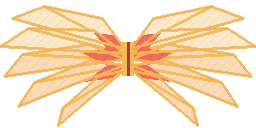
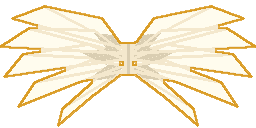
Make Kita angel wings read as feathered wings

diff --git a/src/client/java/com/go4no/ryoblocks/client/KitaAngelWingsFeatureRenderer.java b/src/client/java/com/go4no/ryoblocks/client/KitaAngelWingsFeatureRenderer.java
@@ -1,12 +1,6 @@
 package com.go4no.ryoblocks.client;
 
 import com.go4no.ryoblocks.KitaAngelBossAssets;
-import net.minecraft.client.model.ModelData;
-import net.minecraft.client.model.ModelPart;
-import net.minecraft.client.model.ModelPartBuilder;
-import net.minecraft.client.model.ModelPartData;
-import net.minecraft.client.model.ModelTransform;
-import net.minecraft.client.model.TexturedModelData;
 import net.minecraft.client.render.OverlayTexture;
 import net.minecraft.client.render.RenderLayer;
 import net.minecraft.client.render.VertexConsumer;
@@ -15,95 +9,18 @@ import net.minecraft.client.render.entity.feature.FeatureRenderer;
 import net.minecraft.client.render.entity.feature.FeatureRendererContext;
 import net.minecraft.client.util.math.MatrixStack;
 import net.minecraft.entity.boss.WitherEntity;
-import net.minecraft.util.math.MathHelper;
+import org.joml.Matrix3f;
+import org.joml.Matrix4f;
 
 public final class KitaAngelWingsFeatureRenderer<T extends WitherEntity> extends FeatureRenderer<T, KitaAngelBossModel<T>> {
-    private final ModelPart leftWing;
-    private final ModelPart rightWing;
+    private static final float WING_HALF_WIDTH = 23.5F;
+    private static final float WING_TOP = -10.2F;
+    private static final float WING_BOTTOM = 15.0F;
+    private static final float WING_ROOT_Z = 3.1F;
+    private static final float WING_TIP_Z = 8.8F;
 
     public KitaAngelWingsFeatureRenderer(FeatureRendererContext<T, KitaAngelBossModel<T>> context) {
         super(context);
-        ModelPart root = getTexturedModelData().createModel();
-        this.leftWing = root.getChild("left_wing");
-        this.rightWing = root.getChild("right_wing");
-    }
-
-    public static TexturedModelData getTexturedModelData() {
-        ModelData modelData = new ModelData();
-        ModelPartData root = modelData.getRoot();
-
-        ModelPartData leftWing = root.addChild(
-            "left_wing",
-            ModelPartBuilder.create(),
-            ModelTransform.of(3.9F, 1.0F, 3.25F, 0.02F, -0.38F, -0.16F)
-        );
-        addWingFeathers(leftWing, false);
-
-        ModelPartData rightWing = root.addChild(
-            "right_wing",
-            ModelPartBuilder.create(),
-            ModelTransform.of(-3.9F, 1.0F, 3.25F, 0.02F, 0.38F, 0.16F)
-        );
-        addWingFeathers(rightWing, true);
-
-        return TexturedModelData.of(modelData, 64, 64);
-    }
-
-    private static void addWingFeathers(ModelPartData wingRoot, boolean rightSide) {
-        float sign = rightSide ? -1.0F : 1.0F;
-        wingRoot.addChild(
-            "shoulder_coverts",
-            ModelPartBuilder.create()
-                .uv(0, 0).cuboid(rightSide ? -5.2F : 0.0F, -2.6F, -1.35F, 5.2F, 5.8F, 2.6F)
-                .uv(16, 0).cuboid(rightSide ? -4.0F : 0.0F, -3.4F, -0.95F, 4.0F, 4.0F, 1.8F),
-            ModelTransform.of(0.0F, 0.0F, 0.0F, -0.08F, 0.0F, sign * -0.04F)
-        );
-        wingRoot.addChild(
-            "upper_spar",
-            ModelPartBuilder.create()
-                .uv(0, 8).cuboid(rightSide ? -15.5F : 0.0F, -1.2F, -0.75F, 15.5F, 2.4F, 1.5F),
-            ModelTransform.of(sign * 1.8F, -2.4F, 0.0F, 0.0F, sign * -0.05F, sign * -0.28F)
-        );
-
-        for (int index = 0; index < 7; index++) {
-            float x = sign * (3.0F + index * 2.0F);
-            float y = -0.7F + index * 0.8F;
-            float length = 8.8F + index * 1.15F;
-            float width = 2.35F - index * 0.06F;
-            float roll = sign * (0.28F + index * 0.075F);
-            String name = "primary_" + index;
-            wingRoot.addChild(
-                name,
-                ModelPartBuilder.create()
-                    .uv(0, 16 + (index % 3) * 8)
-                    .cuboid(rightSide ? -length : 0.0F, 0.0F, -0.55F, length, width, 1.1F),
-                ModelTransform.of(x, y, 0.22F + index * 0.05F, 0.0F, sign * -0.14F, roll)
-            );
-        }
-
-        for (int index = 0; index < 5; index++) {
-            float x = sign * (2.4F + index * 1.65F);
-            float y = -4.2F + index * 0.58F;
-            float length = 7.0F + index * 0.9F;
-            wingRoot.addChild(
-                "upper_feather_" + index,
-                ModelPartBuilder.create()
-                    .uv(24, 16 + (index % 2) * 8)
-                    .cuboid(rightSide ? -length : 0.0F, 0.0F, -0.5F, length, 1.55F, 1.0F),
-                ModelTransform.of(x, y, 0.2F, 0.0F, sign * -0.12F, sign * (-0.36F - index * 0.07F))
-            );
-        }
-
-        for (int index = 0; index < 3; index++) {
-            float length = 6.2F + index * 1.2F;
-            wingRoot.addChild(
-                "inner_covert_" + index,
-                ModelPartBuilder.create()
-                    .uv(36, 32 + index * 6)
-                    .cuboid(rightSide ? -length : 0.0F, 0.0F, -0.6F, length, 2.1F, 1.2F),
-                ModelTransform.of(sign * (2.2F + index * 1.35F), 1.0F + index * 0.72F, -0.15F, 0.0F, sign * -0.08F, sign * (0.04F + index * 0.09F))
-            );
-        }
     }
 
     @Override
@@ -120,12 +37,62 @@ public final class KitaAngelWingsFeatureRenderer<T extends WitherEntity> extends
         float headPitch
     ) {
         VertexConsumer vertices = vertexConsumers.getBuffer(RenderLayer.getEntityTranslucent(KitaAngelBossAssets.WINGS_TEXTURE));
-        float flap = MathHelper.sin(animationProgress * 0.12F) * 0.08F;
-        this.leftWing.yaw = -0.38F - flap;
-        this.leftWing.roll = -0.16F - flap * 0.45F;
-        this.rightWing.yaw = 0.38F + flap;
-        this.rightWing.roll = 0.16F + flap * 0.45F;
-        this.leftWing.render(matrices, vertices, light, OverlayTexture.DEFAULT_UV);
-        this.rightWing.render(matrices, vertices, light, OverlayTexture.DEFAULT_UV);
+        matrices.push();
+        matrices.scale(1.0F / 16.0F, 1.0F / 16.0F, 1.0F / 16.0F);
+        MatrixStack.Entry entry = matrices.peek();
+        Matrix4f position = entry.getPositionMatrix();
+        Matrix3f normal = entry.getNormalMatrix();
+
+        float flap = (float)Math.sin(animationProgress * 0.12F) * 1.1F;
+        float yTop = WING_TOP + flap * 0.18F;
+        float yBottom = WING_BOTTOM - flap * 0.1F;
+        drawWingHalf(vertices, position, normal, -WING_HALF_WIDTH, 0.0F, yTop, yBottom, 0.0F, 0.5F, light);
+        drawWingHalf(vertices, position, normal, 0.0F, WING_HALF_WIDTH, yTop, yBottom, 0.5F, 1.0F, light);
+        matrices.pop();
+    }
+
+    private static void drawWingHalf(
+        VertexConsumer vertices,
+        Matrix4f position,
+        Matrix3f normal,
+        float left,
+        float right,
+        float top,
+        float bottom,
+        float uLeft,
+        float uRight,
+        int light
+    ) {
+        float leftZ = left < 0.0F ? WING_TIP_Z : WING_ROOT_Z;
+        float rightZ = right > 0.0F ? WING_TIP_Z : WING_ROOT_Z;
+        vertex(vertices, position, normal, left, bottom, leftZ, uLeft, 1.0F, light);
+        vertex(vertices, position, normal, right, bottom, rightZ, uRight, 1.0F, light);
+        vertex(vertices, position, normal, right, top, rightZ, uRight, 0.0F, light);
+        vertex(vertices, position, normal, left, top, leftZ, uLeft, 0.0F, light);
+
+        vertex(vertices, position, normal, left, top, leftZ + 0.02F, uLeft, 0.0F, light);
+        vertex(vertices, position, normal, right, top, rightZ + 0.02F, uRight, 0.0F, light);
+        vertex(vertices, position, normal, right, bottom, rightZ + 0.02F, uRight, 1.0F, light);
+        vertex(vertices, position, normal, left, bottom, leftZ + 0.02F, uLeft, 1.0F, light);
+    }
+
+    private static void vertex(
+        VertexConsumer vertices,
+        Matrix4f position,
+        Matrix3f normal,
+        float x,
+        float y,
+        float z,
+        float u,
+        float v,
+        int light
+    ) {
+        vertices.vertex(position, x, y, z)
+            .color(255, 255, 255, 255)
+            .texture(u, v)
+            .overlay(OverlayTexture.DEFAULT_UV)
+            .light(light)
+            .normal(normal, 0.0F, 0.0F, -1.0F)
+            .next();
     }
 }

diff --git a/src/client/java/com/go4no/ryoblocks/client/KitaAngelBossVisualProof.java b/src/client/java/com/go4no/ryoblocks/client/KitaAngelBossVisualProof.java
@@ -6,6 +6,7 @@ import net.minecraft.client.option.CloudRenderMode;
 import net.minecraft.client.util.ScreenshotRecorder;
 import net.minecraft.resource.DataConfiguration;
 import net.minecraft.server.MinecraftServer;
+import net.minecraft.sound.SoundCategory;
 import net.minecraft.world.Difficulty;
 import net.minecraft.world.GameMode;
 import net.minecraft.world.GameRules;
@@ -39,6 +40,8 @@ public final class KitaAngelBossVisualProof implements ClientTickEvents.EndTick 
 
     @Override
     public void onEndTick(MinecraftClient client) {
+        muteProofClient(client);
+
         if (client.world == null && !worldStartRequested) {
             worldStartRequested = true;
             LOGGER.info("Creating disposable boss proof world {}", PROOF_WORLD);
@@ -132,6 +135,12 @@ public final class KitaAngelBossVisualProof implements ClientTickEvents.EndTick 
             case 2 -> "back-wing-attachment";
             default -> "unknown";
         };
+    }
+
+    private static void muteProofClient(MinecraftClient client) {
+        for (SoundCategory category : SoundCategory.values()) {
+            client.options.getSoundVolumeOption(category).setValue(0.0D);
+        }
     }
 
     private void placeCamera(MinecraftClient client) {

diff --git a/docs/proof/kita-angel-boss-visual-proof-20260908.md b/docs/proof/kita-angel-boss-visual-proof-20260908.md
@@ -18,12 +18,18 @@ Accepted captures:
 - `docs/proof/kita-aura-ikuyo-front-attached-texture-20260908-215923.png`
 - `docs/proof/kita-aura-ikuyo-side-attached-texture-20260908-215931.png`
 - `docs/proof/kita-aura-ikuyo-back-attached-texture-20260908-215939.png`
+- `docs/proof/kita-aura-ikuyo-front-white-wings-20260908-221056.png`
+- `docs/proof/kita-aura-ikuyo-side-white-wings-20260908-221104.png`
+- `docs/proof/kita-aura-ikuyo-back-white-wings-20260908-221112.png`
 
 Visual check:
 
[1 lines of base64/hex data omitted]
 - Kita's boss body uses Minecraft's slim `PlayerEntityModel` so the supplied 64x64 player skin maps through the standard player UVs.
 - The halo is rendered with a dedicated gold texture as a flat ring above the head.
+- The wing renderer draws the full transparent wing texture as broad angled planes rather than repeated cuboid strips.
+- The wing texture uses ivory feather fill, soft inner feather lines, and a gold rim so it reads as angel wings instead of orange skeletal fins.
+- The proof client mutes all sound categories before staging the world.
 - The final proof captures do not include the comparison `minecraft:wither`.
 - Kita has a human silhouette with normal legs, not a dangling Wither-like lower taper.
 - The wings attach from the upper back/shoulder area, not from the head.
